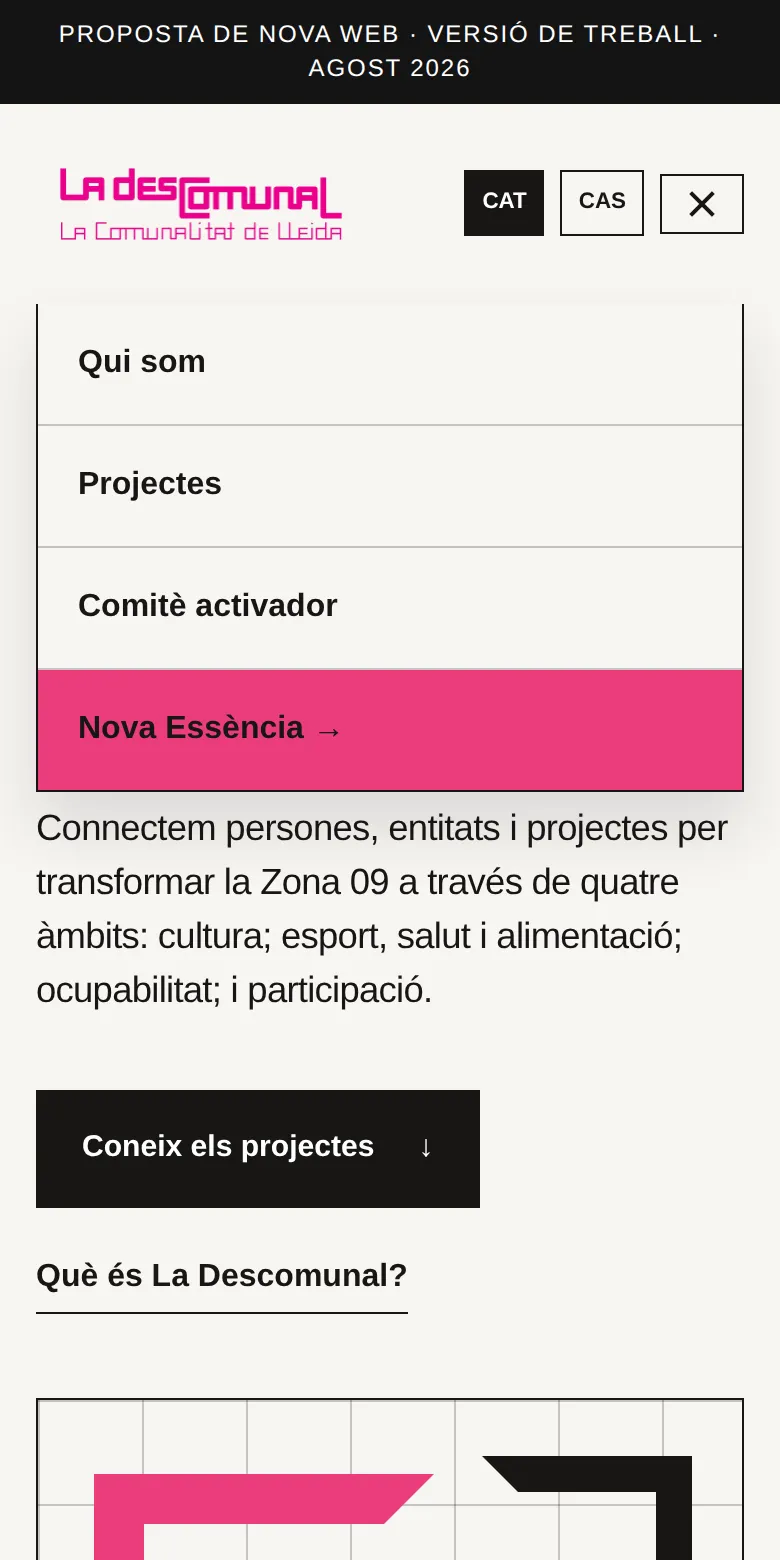
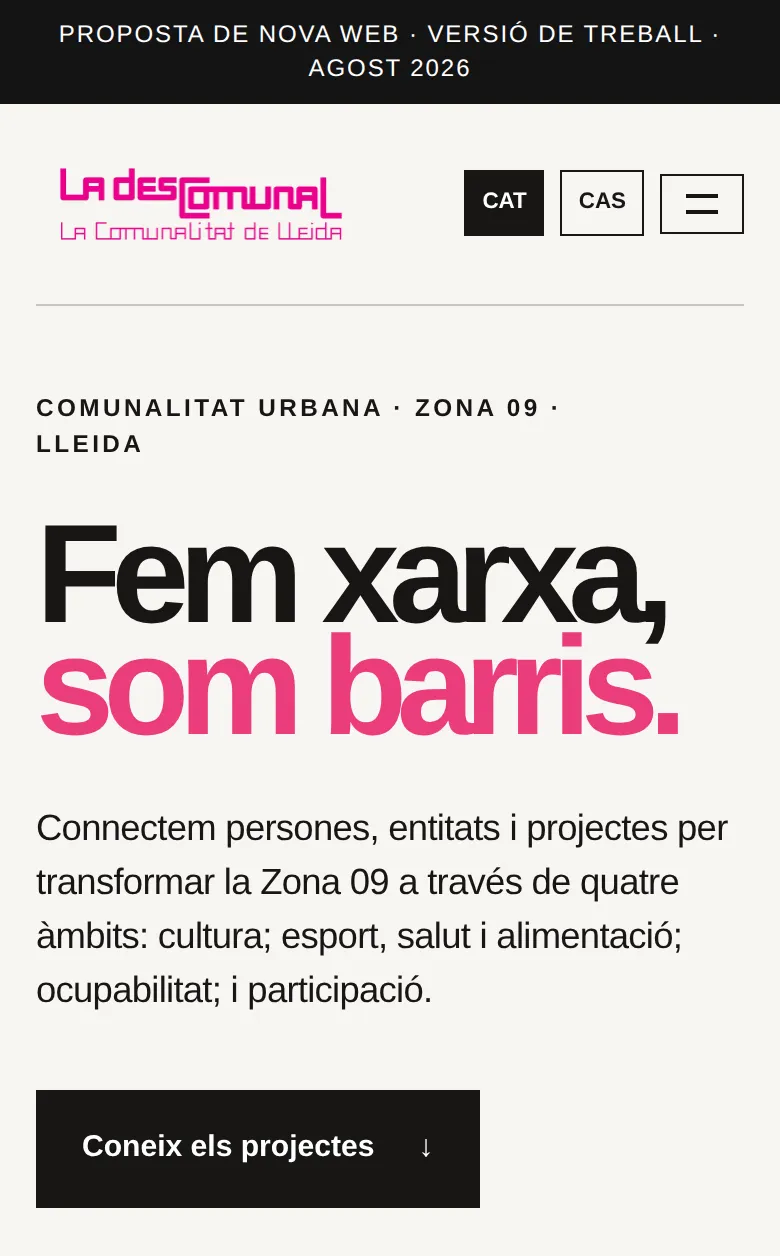
Cas d'estudi: afegeix la comparació en mòbil
Captura de la web actual en mòbil (sense la barra del navegador) i
captura de la proposta amb el menú tancat i la mateixa alçada, per
comparar en igualtat de condicions.

Claude-Session: https://claude.ai/code/session_0121DLBdgfAyVHyXLqzLkwJW

diff --git a/la-descomunal/index.html b/la-descomunal/index.html
@@ -195,7 +195,7 @@ const SHOTS = {
   pressupost:"img/seg-pressupost.webp", admin:"img/seg-admin.webp", mobil:"img/seg-mobil.webp",
   webPortada:"img/web-portada.webp", webMobil:"img/web-mobil.webp",
   // Web oficial actual (ladescomunal.cat). Si una no hi és, la comparació es mostra sense.
-  antesWeb:"img/antes-web.webp", antesMovil:""
+  antesWeb:"img/antes-web.webp", antesMovil:"img/antes-movil.webp"
 };
 
 const DATA = {
